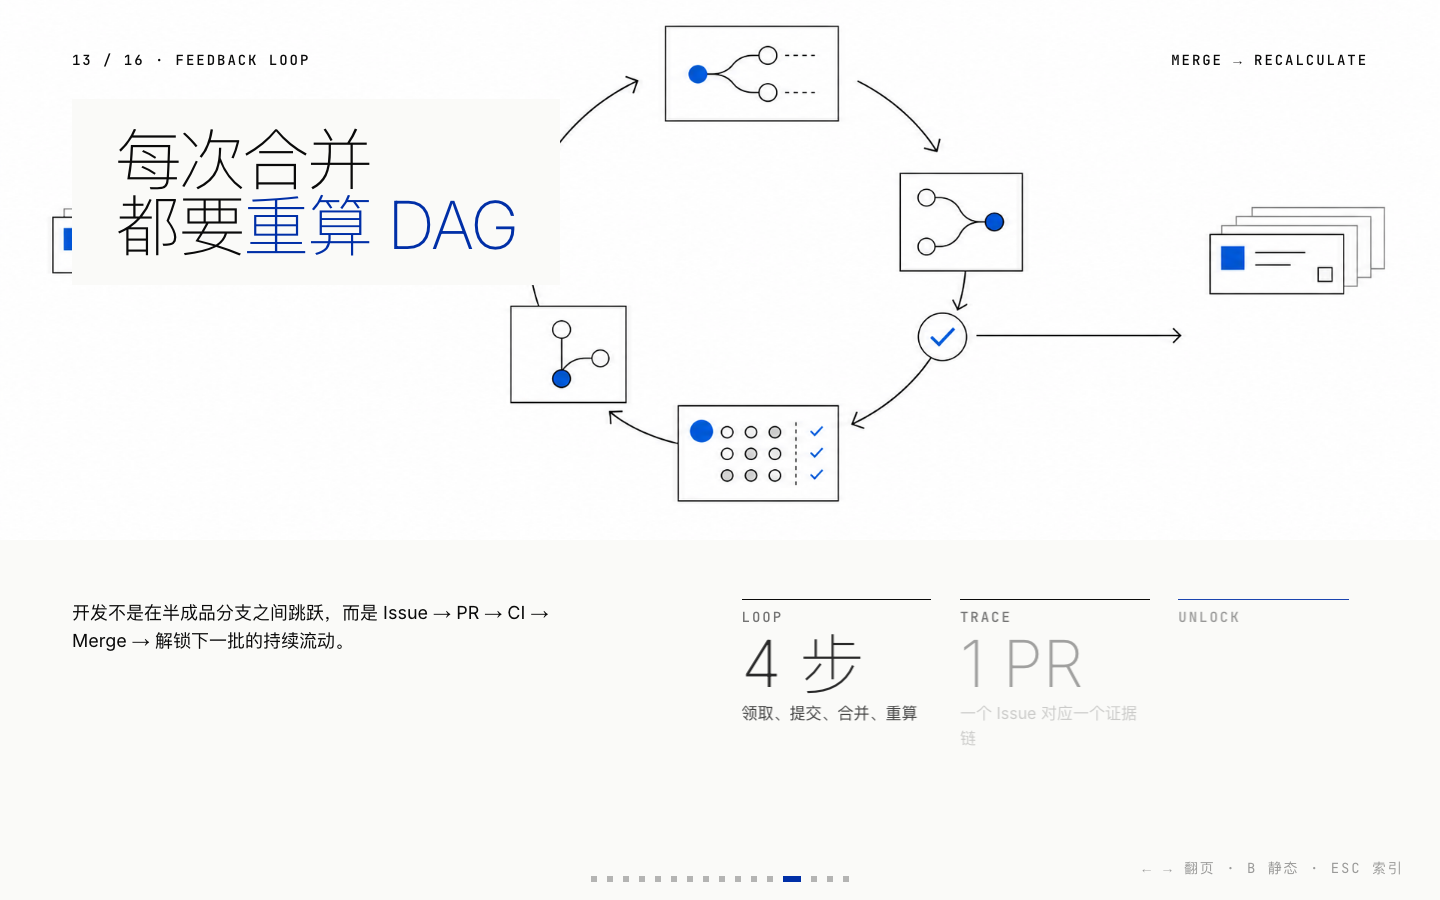
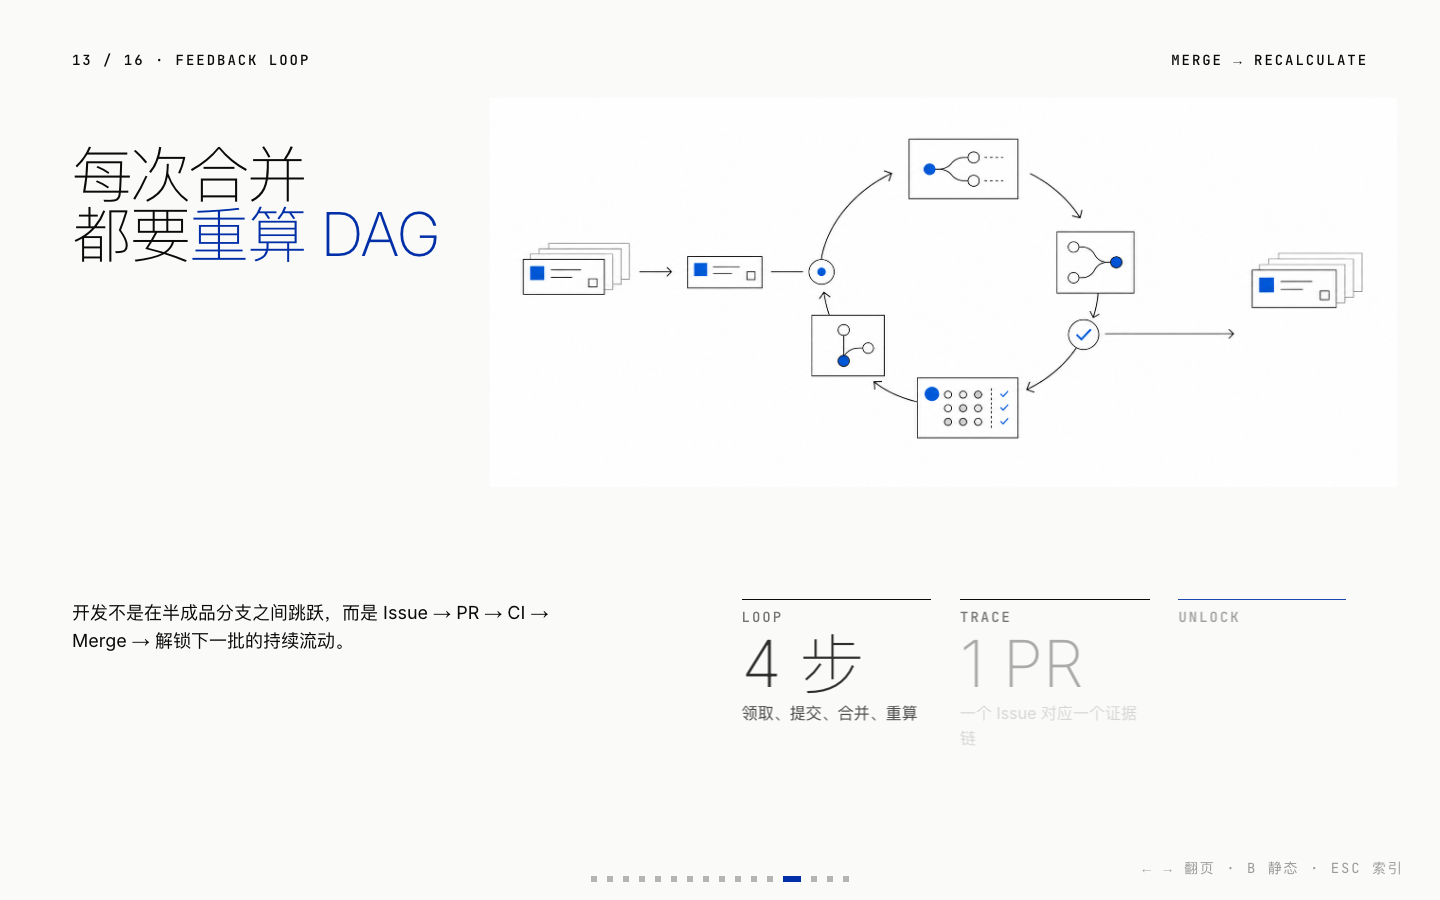
fix: separate DAG loop title and diagram

diff --git a/public/slides/decks/dag-efficient-development/index.html b/public/slides/decks/dag-efficient-development/index.html
@@ -1534,10 +1534,10 @@
 <section class="slide light" data-layout="S22" data-animate="image-hero" data-image-slot="s22-hero-21x9">
   <div class="canvas-card" style="padding:0;display:flex;flex-direction:column;overflow:hidden">
     <div data-anim="img" style="position:relative;flex:0 0 60%;overflow:hidden;background:var(--paper)">
-      <img src="images/13-delivery-loop.png" data-image-slot="s22-hero-21x9" alt="Issue 经过分支、PR、CI 与合并后解锁下一批任务的闭环" loading="eager" style="position:absolute;inset:0;width:100%;height:100%;object-fit:cover;object-position:center center">
+      <img src="images/13-delivery-loop.png" data-image-slot="s22-hero-21x9" alt="Issue 经过分支、PR、CI 与合并后解锁下一批任务的闭环" loading="eager" style="position:absolute;left:34vw;right:3vw;top:7vh;bottom:2vh;width:63vw;height:51vh;object-fit:contain;object-position:right center">
       <div class="chrome-min" style="position:absolute;top:0;left:0;right:0;color:var(--text-primary);padding:5.6vh 5vw 0"><div class="l">13 / 16 · FEEDBACK LOOP</div><div class="r">MERGE → RECALCULATE</div></div>
-      <div data-anim="title-block" style="position:absolute;left:5vw;top:11vh;background:var(--paper);padding:3vh 3vw;max-width:40vw">
-        <div style="font-weight:200;font-size:min(4.6vw,8.2vh);line-height:1;letter-spacing:-.035em">每次合并<br/>都要<span style="color:var(--accent)">重算 DAG</span></div>
+      <div data-anim="title-block" style="position:absolute;left:5vw;top:14vh;width:27vw;background:var(--paper);padding:2vh 0">
+        <div style="font-weight:200;font-size:min(4.2vw,7.4vh);line-height:1;letter-spacing:-.035em">每次合并<br/>都要<span style="color:var(--accent)">重算 DAG</span></div>
       </div>
     </div>
     <div data-anim="kpi" class="image-hero-body">

diff --git a/public/slides/decks/dag-efficient-development/slides.html b/public/slides/decks/dag-efficient-development/slides.html
@@ -231,10 +231,10 @@
 <section class="slide light" data-layout="S22" data-animate="image-hero" data-image-slot="s22-hero-21x9">
   <div class="canvas-card" style="padding:0;display:flex;flex-direction:column;overflow:hidden">
     <div data-anim="img" style="position:relative;flex:0 0 60%;overflow:hidden;background:var(--paper)">
-      <img src="images/13-delivery-loop.png" data-image-slot="s22-hero-21x9" alt="Issue 经过分支、PR、CI 与合并后解锁下一批任务的闭环" loading="eager" style="position:absolute;inset:0;width:100%;height:100%;object-fit:cover;object-position:center center">
+      <img src="images/13-delivery-loop.png" data-image-slot="s22-hero-21x9" alt="Issue 经过分支、PR、CI 与合并后解锁下一批任务的闭环" loading="eager" style="position:absolute;left:34vw;right:3vw;top:7vh;bottom:2vh;width:63vw;height:51vh;object-fit:contain;object-position:right center">
       <div class="chrome-min" style="position:absolute;top:0;left:0;right:0;color:var(--text-primary);padding:5.6vh 5vw 0"><div class="l">13 / 16 · FEEDBACK LOOP</div><div class="r">MERGE → RECALCULATE</div></div>
-      <div data-anim="title-block" style="position:absolute;left:5vw;top:11vh;background:var(--paper);padding:3vh 3vw;max-width:40vw">
-        <div style="font-weight:200;font-size:min(4.6vw,8.2vh);line-height:1;letter-spacing:-.035em">每次合并<br/>都要<span style="color:var(--accent)">重算 DAG</span></div>
+      <div data-anim="title-block" style="position:absolute;left:5vw;top:14vh;width:27vw;background:var(--paper);padding:2vh 0">
+        <div style="font-weight:200;font-size:min(4.2vw,7.4vh);line-height:1;letter-spacing:-.035em">每次合并<br/>都要<span style="color:var(--accent)">重算 DAG</span></div>
       </div>
     </div>
     <div data-anim="kpi" class="image-hero-body">
